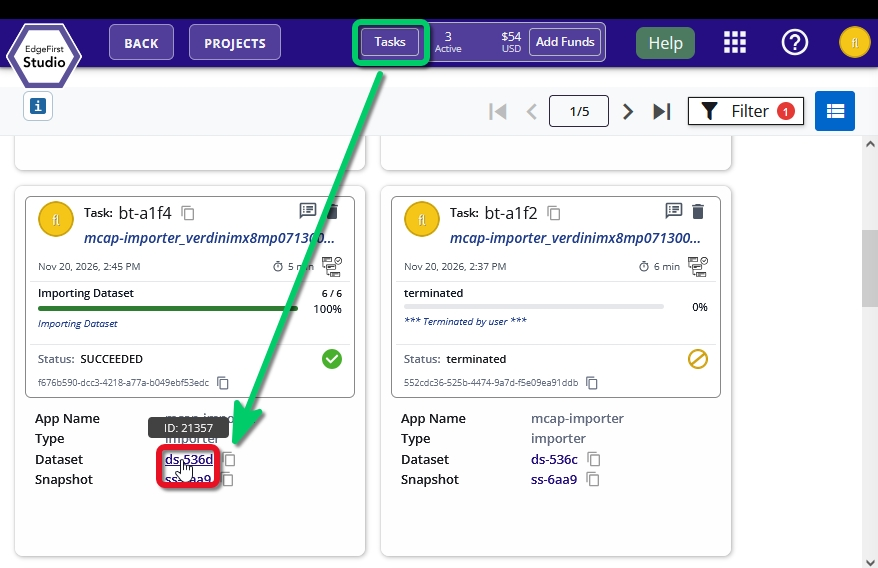
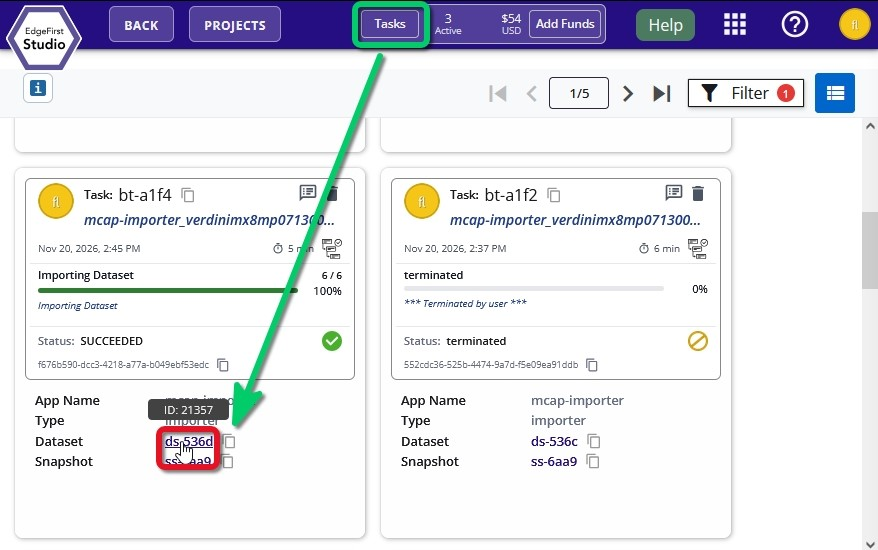
DE-3163: Add 3D annotation redirect and align AGTG and delete docs
Redirect the removed 3D/annotation.md page to 3D/annotations/index.md
so existing links to /3D/annotation/ keep working.

Replace the "Shutdown AGTG Server" text with the Stop Task button
image in the AGTG server warnings (manual 2D, gallery), and add the
active-server warning to the 3D AGTG annotation steps.

Describe deleting a single 2D box, mask or 3D box from the
Annotations panel in the manual 2D and 3D guides, and update the
MCAP import step to start the app and monitor it from Tasks.

Move the Maivin project step ahead of device setup in the nav, and
refresh the restore MCAP task screenshot.

diff --git a/docs/discrete/datasets/manual_2d.md b/docs/discrete/datasets/manual_2d.md
@@ -15,7 +15,7 @@ Please wait while the server is being initialized.
 {{ figure("/datasets/assets/annotations/manual/agtg-server-initialization.jpg", "Launch AGTG Server") }}
 
 !!! warning "Active AGTG Server"
-    This server is costing credits to run.  An inactivity of 15 minutes will auto-terminate this server.  Otherwise, once you have completed the annotations, please ensure to terminate the AGTG server by clicking "Shutdown AGTG Server" to avoid spending more of your credits.
+    This server is costing credits to run.  An inactivity of 15 minutes will auto-terminate this server.  Otherwise, once you have completed the annotations, please ensure to terminate the AGTG server by clicking !["Stop Task Button"](../../assets/buttons/studio_trash_button.jpg) to avoid spending more of your credits.
 
 Once the server is initialized, draw the bounding box around the object by clicking on the image and then dragging the mouse to expand the bounding box.  This will start segmenting the object.  Once the object is properly segmented, go ahead and click "Save AIGT Annotations" as indicated in red to save the annotation and to move forward to the next image.
 
@@ -46,7 +46,7 @@ After making the adjustments, go ahead and press "ENTER" on your keyboard or cli
 
 ## Delete 2D Annotations
 
-To delete an annotation, first click on the pointer tool !["Pointer Tool"](../../assets/buttons/studio-pointer-tool.jpg). Click on the annotated object on the frame to select it.  To delete the annotation, either press the "Delete" key on your keyboard or the delete button on Studio.
+To delete only a 2D box or segmentation mask, expand the object in the **Annotations** panel and click the delete button for that annotation type. The object's other annotations are kept. Selecting the object and pressing `Delete` on your keyboard, or clicking **Delete Object**, deletes the entire object and all of its annotations.
 
 {{ figure("/datasets/assets/annotations/manual/deleted-2d-annotation.jpg", "Delete Annotations") }}
 

diff --git a/docs/studio/agtg.md b/docs/studio/agtg.md
@@ -31,7 +31,7 @@ There are three steps involved in this process: *Initialize AGTG Server*, *Annot
 
 {{ figure("../datasets/assets/annotations/automatic/agtg-segment-tool.jpg", "Select the AI Segment Tool") }}
 
-Clicking on this feature will prompt you to [start an AGTG server](../datasets/tutorials/annotations/automatic.md#initialize-agtg-server).  This is a cloud based server that hosts SAM2 and the AGTG backend.  As indicated, this server will take some time (~3 minutes) to initialize and once initialized, 15 minutes of inactivity will auto-terminate the server.  This is a safety mechanism to prevent extreme usage of the credits available in your account.  As a safety precaution, ensure that all unused servers are terminated to prevent any unnecessary server costs.  When you have finished annotating, click the **Shutdown AGTG Server** button to stop the server.
+Clicking on this feature will prompt you to [start an AGTG server](../datasets/tutorials/annotations/automatic.md#initialize-agtg-server).  This is a cloud based server that hosts SAM2 and the AGTG backend.  As indicated, this server will take some time (~3 minutes) to initialize and once initialized, 15 minutes of inactivity will auto-terminate the server.  This is a safety mechanism to prevent extreme usage of the credits available in your account.  As a safety precaution, ensure that all unused servers are terminated to prevent any unnecessary server costs.  When you have finished annotating, click the ![**Stop Task Button**](../assets/buttons/studio_trash_button.jpg) button to stop the server.
 
 {{ figure("../datasets/assets/annotations/manual/confirm-agtg-server-launch.jpg", "Launch AGTG Server") }}
 

diff --git a/docs/studio/datasets/gallery.md b/docs/studio/datasets/gallery.md
@@ -211,7 +211,7 @@ While the AGTG tool is active the ribbon shows these buttons.
 
 ### AGTG Task and Server
 
-The sidebar also shows an **AGTG Task** card with the status of the server.  Use its terminate option or **Shutdown AGTG Server** to stop the server.  The server stops by itself after 15 minutes of inactivity, but shut it down when you are done so that no credits are used unnecessarily.
+The sidebar also shows an **AGTG Task** card with the status of the server.  Use its terminate option or ![**Stop Task Button**](../../assets/buttons/studio_trash_button.jpg) to stop the server.  The server stops by itself after 15 minutes of inactivity, but shut it down when you are done so that no credits are used unnecessarily.
 
 !!! note
     To place the generated annotations on the right objects, or to fix annotations that ended up on separate objects, see [Objects and Annotation Cases](../../3D/annotations/cases.md).

diff --git a/docs/discrete/datasets/annotate_3d_dataset.md b/docs/discrete/datasets/annotate_3d_dataset.md
@@ -26,6 +26,11 @@ Launch the AGTG server by clicking on the "AI Segment Tool".
 
 ## Annotate Starting Frame
 
+Once the AGTG server has started, go ahead and annotate the starting frame.
+
+!!! warning "Active AGTG Server"
+    This server is costing credits to run.  An inactivity of 15 minutes will auto-terminate this server.  Otherwise, once you have completed the annotations, please ensure to terminate the AGTG server by clicking !["Stop Task Button"](../../assets/buttons/studio_trash_button.jpg) to avoid spending more of your credits.
+
 Annotate the starting frame by drawing a box around the object (click and drag). This will point SAM to the object in the frame that you would like to track. If a second object also needs to be annotated, click on the "+" button as shown to add a new object. Do this for each new object in your frame.
 
 {{ figure("/3D/assets/annotate_starting_frame.jpg", "Annotate Frame") }}

diff --git a/docs/discrete/datasets/manual_3d.md b/docs/discrete/datasets/manual_3d.md
@@ -84,7 +84,7 @@ Click "Save Image Annotations" or press "ENTER" on your keyboard to save the new
 
 ## Delete 3D Annotation
 
-To delete an annotation, first click on the pointer tool !["Pointer Tool"](../../assets/buttons/studio-pointer-tool.jpg). Click on the annotated object to select the annotation.  To delete, press the "Delete" key on your keyboard or click on the delete button.
+To delete only a 3D box, expand the object in the **Annotations** panel and click the delete button for that annotation type. The object's other annotations are kept. Selecting the object and pressing `Delete` on your keyboard, or clicking **Delete Object**, deletes the entire object and all of its annotations.
 
 {{ figure("/datasets/assets/annotations/manual/deleted-3d-annotation.jpg", "Delete 3D Annotations") }}
 

diff --git a/docs/discrete/datasets/import_mcaps.md b/docs/discrete/datasets/import_mcaps.md
@@ -30,7 +30,7 @@ If you have an MCAP recording [captured from either a Maivin/Raivin platform](..
 
     {{ figure("/datasets/assets/annotations/automatic/restore_mcap_prompts.jpg", "Import MCAP Configuration") }}
 
-7. You can find the process of the app by clicking the "Tasks" button on the Studio navbar. Once the process completes, you can navigate to the dataset in Studio by clicking on the dataset link shown on the task card "ds-536d".
+7. Click **START APP** to begin the import, then click **Tasks** on the Studio navbar to monitor its progress. Once the process completes, open the dataset using the dataset link on the task card.
 
     {{ figure("/datasets/assets/annotations/automatic/restore_mcap_task.jpg", "Process Completed") }}
 
